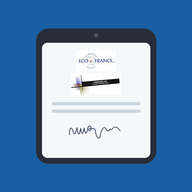
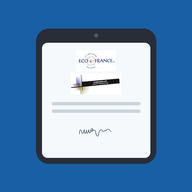
fix: réduit la taille de la signature sur l'icône
La signature prenait presque toute la largeur de l'écran ; elle est
désormais plus petite et discrète, mieux proportionnée par rapport
aux logos et aux champs du formulaire.

Bump de CACHE_VERSION pour que les appareils déjà installés récupèrent
la nouvelle icône au prochain accès réseau.

Claude-Session: https://claude.ai/code/session_01DDfLhwsvrpRrsosDNXuFqa

Changed region(s): [[0.3438, 0.6562, 0.625, 0.7188]]

diff --git a/sw.js b/sw.js
@@ -1,7 +1,7 @@
 /* Service worker : rend l'application utilisable hors connexion.
    Bump CACHE_VERSION à chaque déploiement qui change l'un des fichiers ci-dessous
    (sinon les appareils déjà installés continueraient de servir l'ancienne version en cache). */
-const CACHE_VERSION = 'v8';
+const CACHE_VERSION = 'v9';
 const CACHE_NAME = 'rdv-cache-' + CACHE_VERSION;
 
 const APP_SHELL = [
